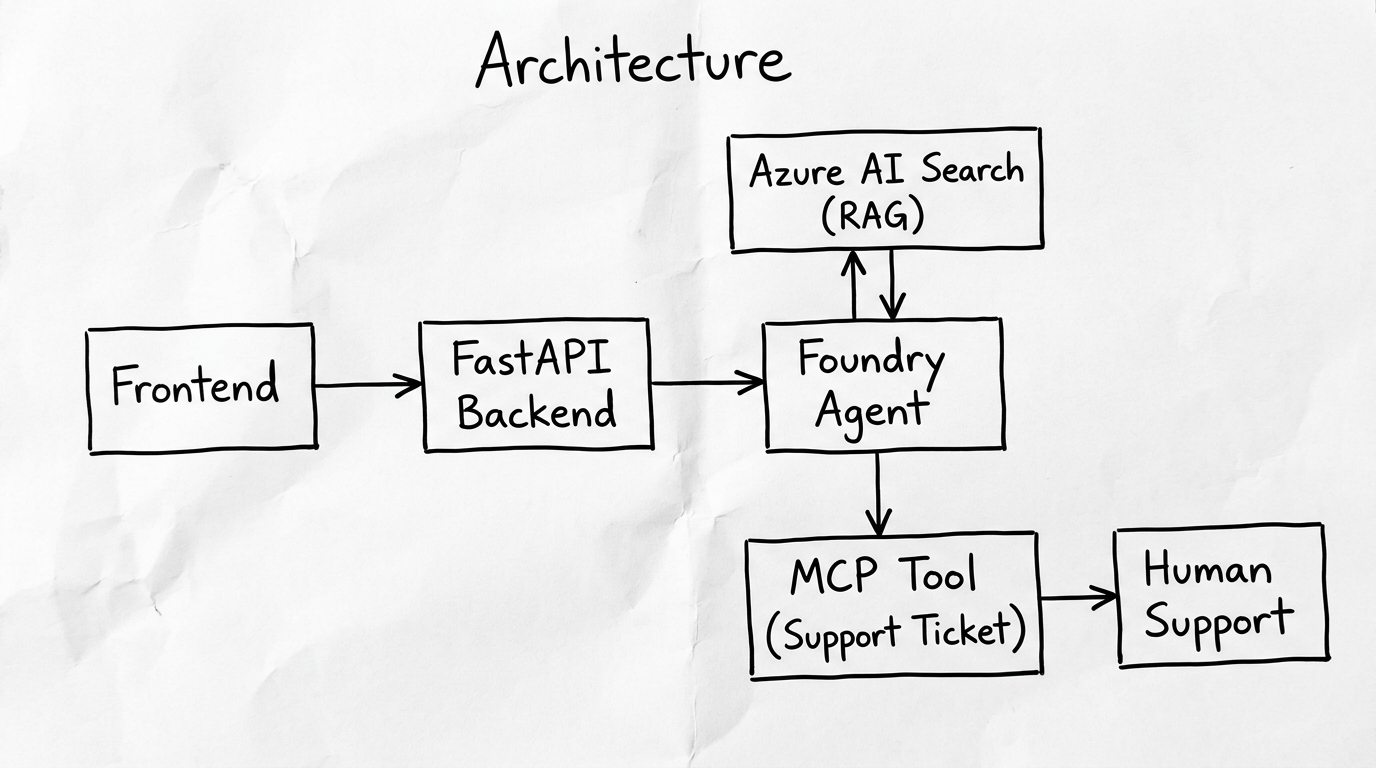
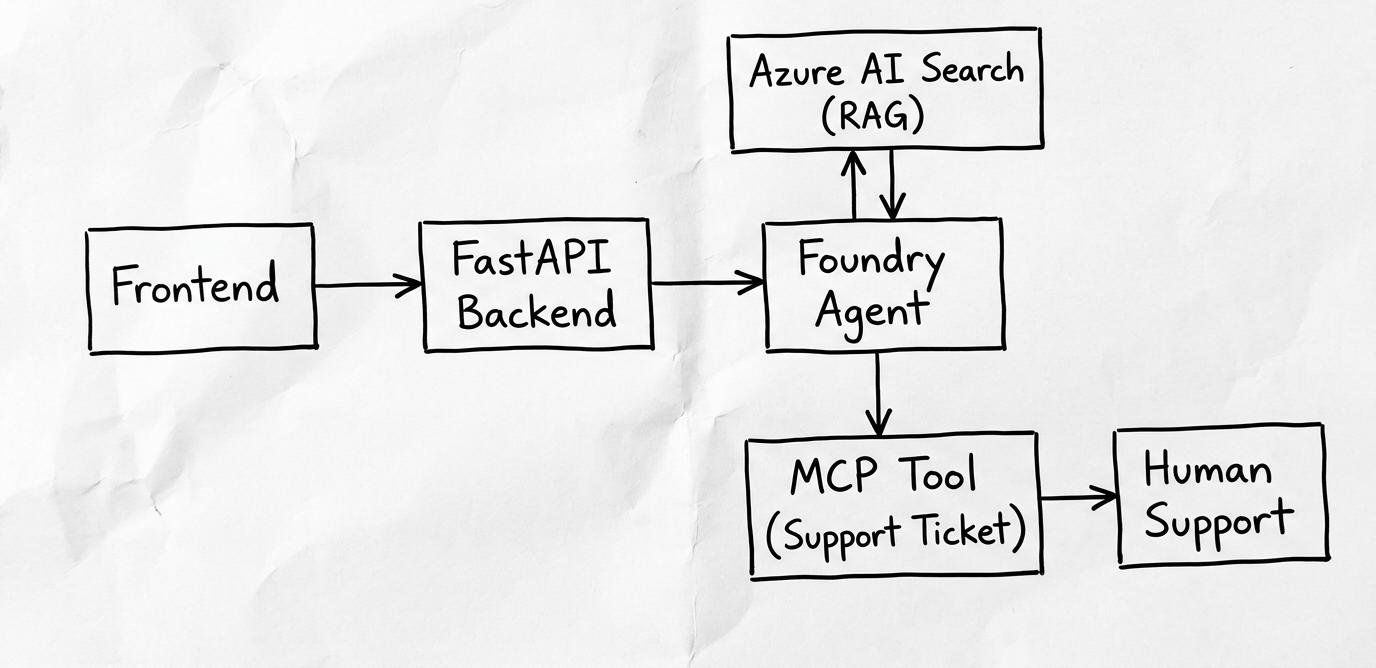
style: Crop architecture title, apply hand-drawn CSS to services slide, revert slide 1 layout

Changed region(s): [[0.0625, 0.0299, 0.9688, 0.8982], [0.4688, 0.6287, 0.5312, 0.6886]]

diff --git a/smartbase.html b/smartbase.html
@@ -76,8 +76,7 @@
         .services-slide {
           padding: 2rem 4rem;
           height: 100%;
-          background: url('assets/smartbase/problem_final.jpg') center/cover no-repeat;
-          /* We will use a white overlay to fade out the background sketch and just keep the paper texture */
+          background: url('assets/smartbase/problem_16x9.jpg') center/cover no-repeat;
           position: relative;
           display: flex;
           flex-direction: column;
@@ -97,38 +96,66 @@
         }
         .services-title {
           font-family: 'Caveat', cursive, sans-serif;
-          font-size: 3rem;
+          font-size: 4rem;
           text-align: center;
-          margin-bottom: 1.5rem;
+          margin-bottom: 2rem;
           color: #222;
+          transform: rotate(-1deg);
         }
         .services-grid {
           display: grid;
-          grid-template-columns: repeat(auto-fill, minmax(250px, 1fr));
-          gap: 1rem;
+          grid-template-columns: repeat(auto-fill, minmax(280px, 1fr));
+          gap: 1.5rem;
           overflow-y: auto;
           padding-bottom: 2rem;
+          padding-right: 1rem;
           flex: 1;
         }
+        /* Make the boxes look like colored pencil drawn sticky notes */
         .svc-card {
-          background: rgba(255,255,255,0.7);
-          border: 1px solid rgba(0,0,0,0.1);
-          border-radius: 8px;
-          padding: 1rem;
-          font-size: 0.9rem;
+          background: rgba(253, 246, 227, 0.85); /* subtle yellow note color */
+          border: 2px solid #333;
+          border-radius: 255px 15px 225px 15px/15px 225px 15px 255px;
+          padding: 1.2rem;
+          font-size: 1.1rem;
           display: flex;
           flex-direction: column;
+          box-shadow: 2px 4px 10px rgba(0,0,0,0.05);
+          transition: transform 0.2s;
+        }
+        .svc-card:nth-child(even) {
+          background: rgba(224, 247, 250, 0.85); /* subtle blue */
+          border-radius: 15px 225px 15px 255px/255px 15px 225px 15px;
+          transform: rotate(1deg);
+        }
+        .svc-card:nth-child(3n) {
+          background: rgba(252, 228, 236, 0.85); /* subtle pink */
+          border-radius: 255px 15px 225px 15px/15px 225px 15px 255px;
+          transform: rotate(-1.5deg);
+        }
+        .svc-card:nth-child(4n) {
+          background: rgba(241, 248, 233, 0.85); /* subtle green */
+          transform: rotate(0.5deg);
+        }
+        .svc-card:hover {
+          transform: scale(1.05) rotate(0deg);
+          z-index: 10;
         }
         .svc-title {
-          font-weight: 600;
+          font-weight: 700;
           font-family: 'Caveat', cursive, sans-serif;
-          font-size: 1.4rem;
+          font-size: 1.8rem;
           margin-bottom: 0.5rem;
           color: #111;
+          border-bottom: 1px dashed #777;
+          padding-bottom: 0.5rem;
         }
         .svc-desc {
+          font-family: 'Caveat', cursive, sans-serif;
+          font-size: 1.4rem;
           color: #444;
-          line-height: 1.4;
+          line-height: 1.3;
+          margin-top: 0.5rem;
         }
 
         /* Navigation Buttons */
@@ -161,7 +188,7 @@
           
           <!-- Slide 1 -->
           <div class="standard-slide">
-            <img src="assets/smartbase/problem_final.jpg" alt="Problem Statement" />
+            <img src="assets/smartbase/problem_16x9.jpg" alt="Problem Statement" />
           </div>
 
           <!-- Slide 2 -->
